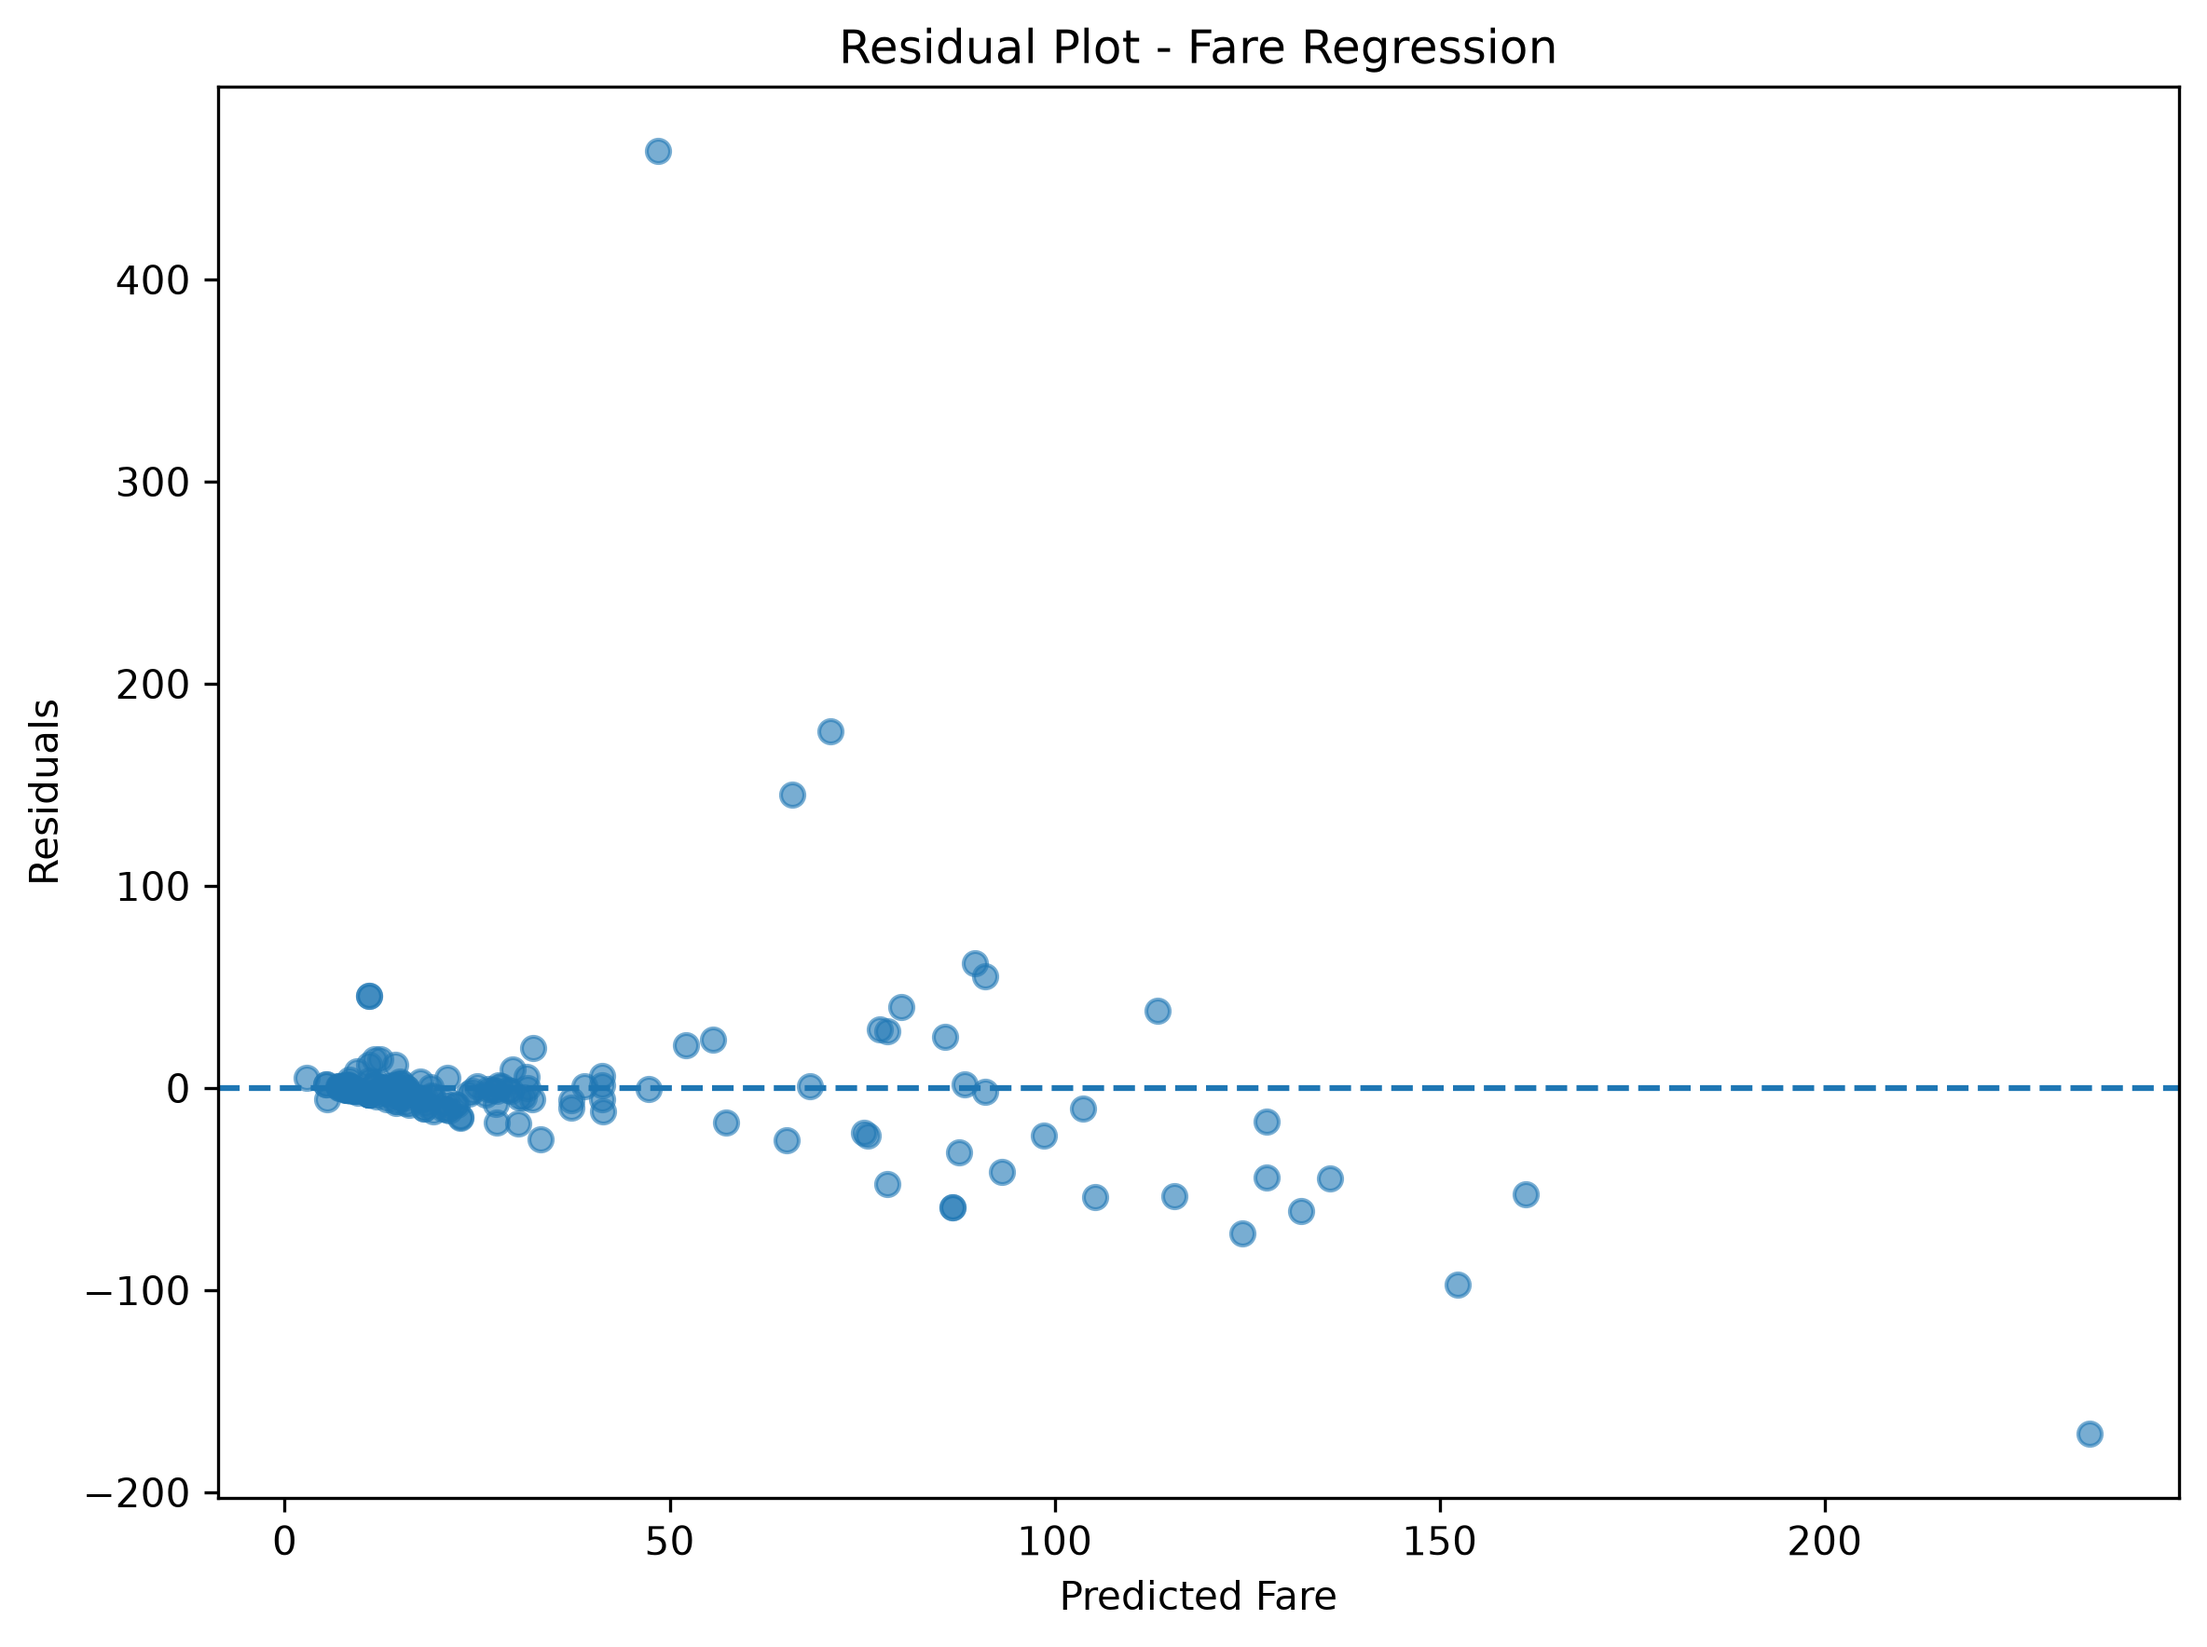
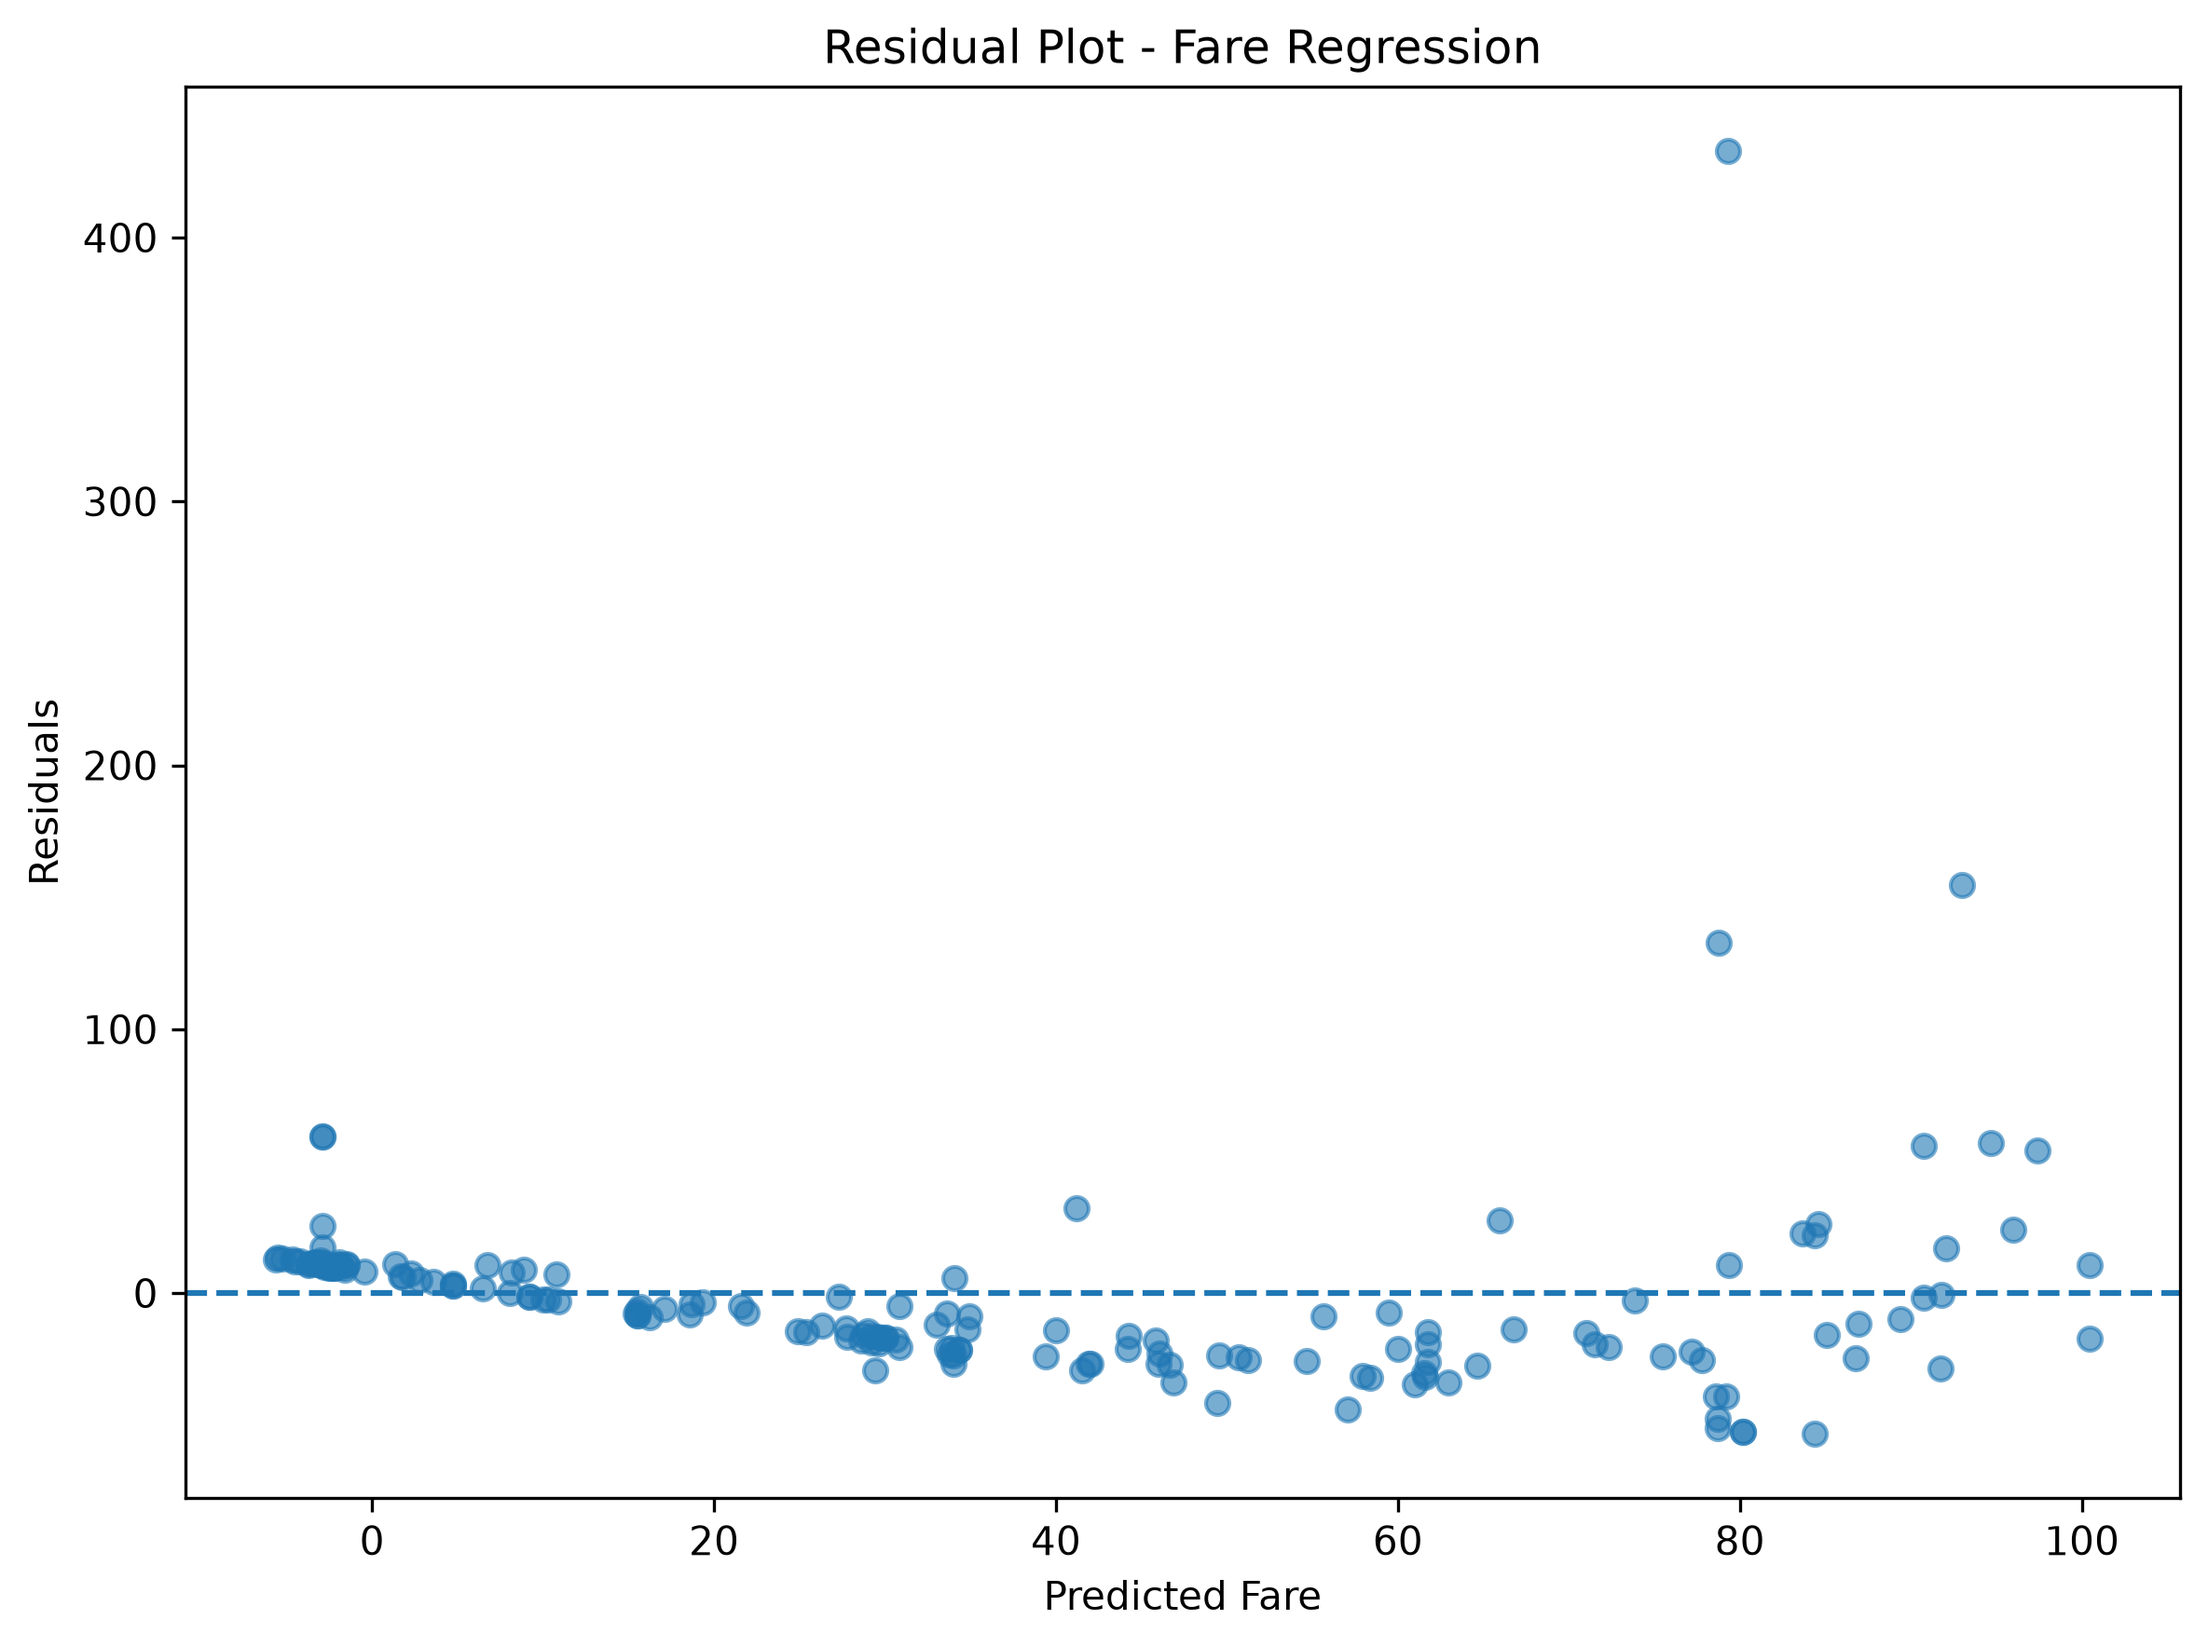
Correct regression model to linear regression

diff --git a/analytics/analytics.py b/analytics/analytics.py
@@ -1058,7 +1058,7 @@ print("\n" + "=" * 60)
 print("REGRESSION - PREDICT FARE")
 print("=" * 60)
 
-from sklearn.ensemble import RandomForestRegressor
+from sklearn.linear_model import LinearRegression
 from sklearn.metrics import mean_absolute_error, mean_squared_error, r2_score
 
 # Features used to predict fare
@@ -1128,11 +1128,7 @@ regression_pipeline = Pipeline(
         ("preprocessor", reg_preprocessor),
         (
             "regressor",
-            RandomForestRegressor(
-                n_estimators=200,
-                random_state=42,
-                n_jobs=-1
-            )
+            LinearRegression()
         )
     ]
 )
@@ -1264,7 +1260,7 @@ final_classification.to_csv(
 
 final_regression = pd.DataFrame(
     [{
-        "Model": "Random Forest Regressor",
+        "Model": "Linear Regression",
         "MAE": mae,
         "RMSE": rmse,
         "R2": r2,
